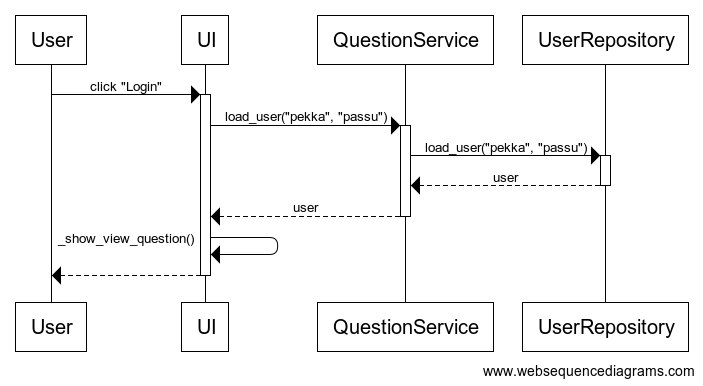
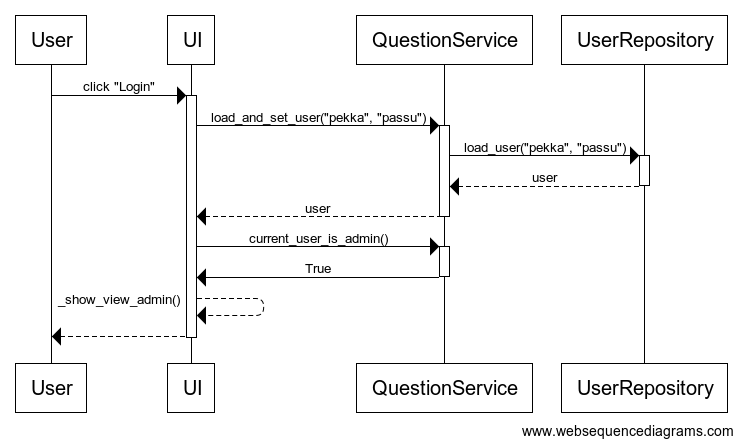
Päivitetty arkkitehtuuri-dokumenttia

diff --git a/dokumentaatio/arkkitehtuuri.md b/dokumentaatio/arkkitehtuuri.md
@@ -2,26 +2,54 @@
 
 ## Rakenne
 
+Ohjelman rakenne noudattaa kerrosarkkitehtuuria. Sen pakkausrakenne on esitetty seuraavassa kuvassa:
+
 ![Arkkitehtuuri](./kuvat/architecture.png)
 
-Sovelluksen kerrosarkkitehtuurin karkea esitys.
+Tässä "ui" vastaa käyttöliittymästä, "services" vastaa sovelluslogiikasta, "repositories" vastaa tietojen tallentamisesta ja "entities" sisältää käytettyjen tietokohteiden luokkia.
 
 ## Luokkakaavio
 
+Arkkitehtuuri kuvaa tarkempi esitys sovelluksen pääasiallisista luokista ja niiden välisistä suhteista on annettu seuraavassa kuvassa:
+
 ![Luokkakaavio](./kuvat/luokkakaavio.jpg)
 
-Sovelluksen luokkakaavio, joka ei vastaa täysin sovelluksen nykytilaa, mutta esittää suuntaa, johon ollaan pyrkimässä.
+User-luokka vastaa käyttäjää, Question-luokka vastaa kysymystä, Series-luokka vastaa kysymyssarjaa ja Answer luokka vastaa vastausta kysymykseen. UserRepository-luokka vastaa käyttäjäntiedon tallentamisesta ja hakemisesta, ja SeriesRepository-luokka vastaa kysymyksiin ja kysymyssarjoihin liittyvän tiedon tallentamisesta ja hakemisesta. QuestionService-luokka vastaa yleisestä sovelluslogiikasta ja sillä on pääsy kaikkiin edellämainittuihin luokkiin. UI-luokka sekä näkymäluokat, joita ei ole esitetty kuvassa erikseen, vastaavat graafisesta käyttöliittymästa, ja niillä on pääsy vain QuestionService-luokkaan.
+
+## Käyttöliittymä
+
+Käyttöliittymässä on seuraavat erilliset näkymät:
+
+- Sisäänkirjautumisnäkymä
+- Pääkäyttäjännäkymä
+- Kysymyssarjalistasnäkymä
+- Kysymyssarjanluontinäkymä
+- Kysymyksenluontinäkymä
+- Kysymysnäkymä
+- Raporttinäkymä
+
+Näkymät ovat toteutettu omina luokkinaan. Yksi näkymä on kerrallaan näkyvissä. Näkymien hallinnasta ja näyttämisestä vastaa UI-luokka. 
+
+## Tietojen pysyväistallennus
+
+Repositories-pakkauksen luokat UserRepository ja SeriesRepository vastaavat tietojen pysyväistallennuksesta ja tiedon hakemisesta tallennuksesta. Tieto tallennetaan SQLite-tietokantaan (yksittäiseen tiedostoon). 
+
+Lisäksi on olmeassa erillinen csv-tiedostona "default_series.csv", joka sisältää tiedon default-kysymyssarjasta. Kun sovellus laitetaan käyttövalmiiksi build-komennolla, tällöin tietokanta alustetaan ja luodaan tarvittavat taulut. Tämän jälkeen default-kysymyssarjan tiedot luetaan csv-tiedostosta ja tallennetaan tietokantaan, josta vastaa SeriesRepository-luokka.
 
 ## Päätoiminnallisuudet
 
 ### Käyttäjän sisäänkirjautuminen
 
-Aloitusnäkymässä kun antaa käyttänimen ja salasanan, niin tapahtuu seuraavan kuvan mukainen tapahtumaketju, olettaen, että kyseinen käyttäjä on jo olemassa tietokannassa.
+Aloitusnäkymässä kun antaa käyttänimen ja salasanan, niin tapahtuu seuraavan kuvan mukainen tapahtumaketju, olettaen, että kyseinen käyttäjä on jo olemassa tietokannassa ja kyseinen käyttäjä on pääkäyttäjä (admin). Kuvassa "User" ei tarkoita User-oliota, vaan se viittaa graafista liittymää käyttävään käyttäjään, jolle näytetään näkymiä.
 
-![Kirjautumissekvenssi](./kuvat/login_sequence.png)
+![Kirjautumissekvenssi](./kuvat/login_admin_sequence.png)
+
+Kun käyttäjä klikkaa "Login"-nappia, kutsutaan load_and_set_user-metodia, joka hakee käyttäjän tiedot UserRepository-luokan load_user-metodia käyttäen. Tässä tapauksessa käyttäjän tiedot löytyvät, joten load_and_set_user-metodi asettaa kyseisen käyttäjän tämänhetkiseksi käyttäjäksi. Tämän jälkeen UI-luokka käyttää current_user_is_admin-metodia hakeakseen tiedot siitä, onko käyttäjä pääkäyttäjä. Tässä tapauksessa näin on, joten UI-luokka näyttää pääkäyttäjännäkymän käyttäen _show_view_admin-metodia.
 
 ### Vastauksen antaminen
 
-Kun käyttäjä antaa vastauksen kysymykseen, tapahtuu seuraava tapahtumasarja siinä tapauksessa, että vastattu kysymys ei ole kysymyssarjan viimeinen. (Kuvassa annettu vastaus on 1.)
+Kun käyttäjä antaa vastauksen kysymykseen, tapahtuu seuraava tapahtumasarja siinä tapauksessa, että vastattu kysymys ei ole kysymyssarjan viimeinen. (Kuvassa annettu vastaus on 1.) Kuvassa "User" ei tarkoita User-oliota, vaan se viittaa graafista liittymää käyttävään käyttäjään, jolle näytetään näkymiä.
 
 ![Vastaussekvenssi](./kuvat/give_answer_sequence.png)
+
+Kun käyttäjä klikkaa "Give answer"-nappia, UI-luokka kutsuu QuestionService-luokan give_answer_metodia, jonka seurauksena luodiin uusi Answer-olio. QuestionService-luokka myös lisää vastauksen käsittelyssä olevien vastausten listalle. Tämän jälkeen UI-luokka kutsuu QuestionService-luokan is_series_finished-metodia, joka palauttaa tiedon, onko kaikki kysymyssarjan kysymykset käyty läpi. Tässä tapauksessa vastaus on kieltävä, joten UI-luokka näyttää käyttäjälle seuraavan kysymyksen.
